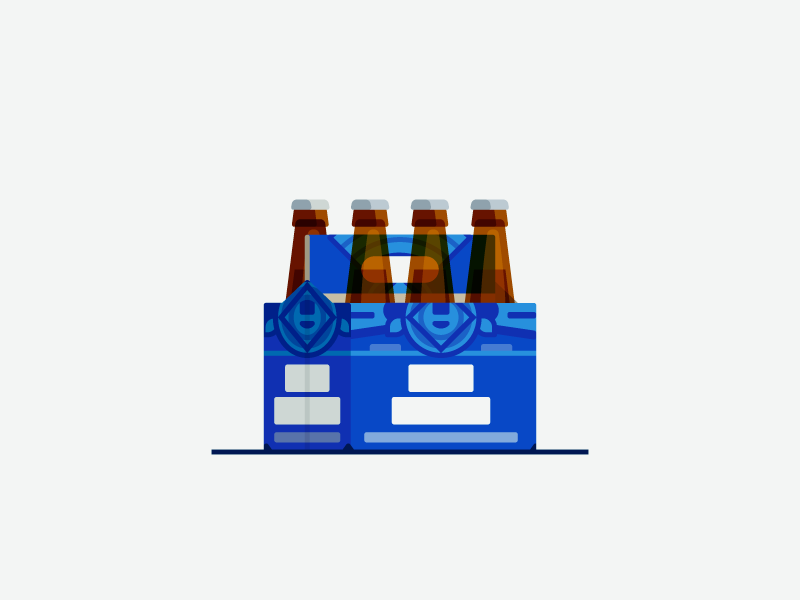
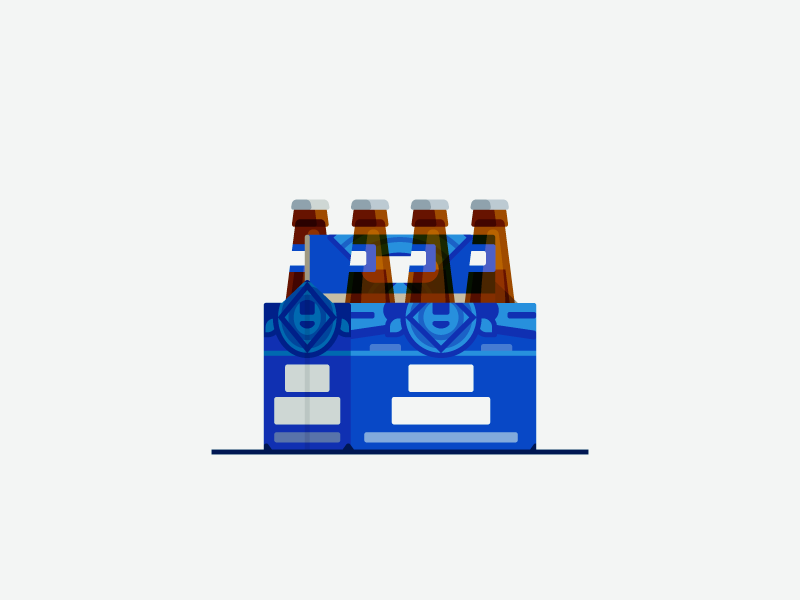
blue moon and bud light

Changed region(s): [[0.5, 0.39, 0.625, 0.45], [0.4375, 0.39, 0.4688, 0.48], [0.3438, 0.39, 0.4062, 0.45]]

diff --git a/index.html b/index.html
@@ -1,6 +1,6 @@
 <!doctype html><html class="no-js" lang=""><head><meta charset="utf-8"><meta name="description" content=""><meta name="viewport" content="width=device-width,initial-scale=1"><title>Brewskies</title><link rel="apple-touch-icon-precomposed" sizes="57x57" href="images/fav/apple-touch-icon-57x57.png"><link rel="apple-touch-icon-precomposed" sizes="114x114" href="images/fav/apple-touch-icon-114x114.png"><link rel="apple-touch-icon-precomposed" sizes="72x72" href="images/fav/apple-touch-icon-72x72.png"><link rel="apple-touch-icon-precomposed" sizes="144x144" href="images/fav/apple-touch-icon-144x144.png"><link rel="apple-touch-icon-precomposed" sizes="60x60" href="images/fav/apple-touch-icon-60x60.png"><link rel="apple-touch-icon-precomposed" sizes="120x120" href="images/fav/apple-touch-icon-120x120.png"><link rel="apple-touch-icon-precomposed" sizes="76x76" href="images/fav/apple-touch-icon-76x76.png"><link rel="apple-touch-icon-precomposed" sizes="152x152" href="images/fav/apple-touch-icon-152x152.png"><link rel="icon" type="image/png" href="images/fav/favicon-196x196.png" sizes="196x196"><link rel="icon" type="image/png" href="images/fav/favicon-96x96.png" sizes="96x96"><link rel="icon" type="image/png" href="images/fav/favicon-32x32.png" sizes="32x32"><link rel="icon" type="image/png" href="images/fav/favicon-16x16.png" sizes="16x16"><link rel="icon" type="image/png" href="images/fav/favicon-128.png" sizes="128x128"><meta name="application-name" content="&nbsp;"><meta name="msapplication-TileColor" content="#FFFFFF"><meta name="msapplication-TileImage" content="images/fav/mstile-144x144.png"><meta name="msapplication-square70x70logo" content="images/fav/mstile-70x70.png"><meta name="msapplication-square150x150logo" content="images/fav/mstile-150x150.png"><meta name="msapplication-wide310x150logo" content="images/fav/mstile-310x150.png"><meta name="msapplication-square310x310logo" content="images/fav/mstile-310x310.png"><!-- Place favicon.ico in the root directory --><link rel="stylesheet" href="styles/main.css"><script src="scripts/vendor/modernizr.js"></script></head><body><!--[if lt IE 10]>
       <p class="browserupgrade">You are using an <strong>outdated</strong> browser. Please <a href="http://browsehappy.com/">upgrade your browser</a> to improve your experience.</p>
-    <![endif]--><header class="landing"><h1>The Beer Project</h1><p>The Beer Project started with a six pack of Dos Equis and some time to spare. Shortly after, a few of my friends pushed me to turn this into a series. Since then, I've tried to knock out one of these illustrations — along with its respective six pack each week. This series originally lived on Dribbble but I've decided that it might be time for this project to live on its own here. Shoutouts to Lawrence Humphrey for developing this amazing site. Be sure to check out his stuff <a href="http://www.lawrencehumphrey.com">here</a>.</p><h3><a href="http://www.eatsleepvector.com">eatsleepvector.com</a></h3></header><section class="brews"><ul class="brews-container"><li class="brew budlight"><figure><img src="images/17-budLight.png" alt="bud-light"></figure></li><li class="brew longtrail"><figure><img src="images/16-longtrail.png" alt="longtrail"></figure></li><li class="brew stella"><figure><img src="images/15-stella.png" alt="stella"></figure></li><li class="brew yuengling"><figure><img src="images/14-yuengling.png" alt="yuengling"></figure></li><li class="brew newcastle"><figure><img src="images/13-newcastle.png" alt="newcastle"></figure></li><li class="brew brooklynlager"><figure><img src="images/12-brooklynLager.png" alt="brooklyn-lager"></figure></li><li class="brew creativesouth"><figure><img src="images/11-creativeSouth.png" alt="creative-south"></figure></li><li class="brew highlife"><figure><img src="images/10-highLife.png" alt="high-life"></figure></li><li class="brew pbr"><figure><img src="images/09-pbr.png" alt="pbr"></figure></li><li class="brew molson"><figure><img src="images/08-molson.png" alt="molson"></figure></li><li class="brew modelo"><figure><img src="images/07-modelo.png" alt="modelo"></figure></li><li class="brew bluemoon"><figure><img src="images/06-blueMoon.png" alt="blue-moon"></figure></li><li class="brew corona"><figure><img src="images/05-corona.png" alt="corona"></figure></li><li class="brew fattire"><figure><img src="images/04-fatTire.png" alt="fat-tire"></figure></li><li class="brew lonestar"><figure><img src="images/03-loneStar.png" alt="lone-star"></figure></li><li class="brew redstripe"><figure><img src="images/02-redStripe.png" alt="red-stripe"></figure></li><li class="brew shiner"><figure><img src="images/01-shiner.png" alt="shiner-bock"></figure></li><li class="brew dosequis"><figure><img src="images/00-dosEquis.png" alt="dos-equis"></figure></li></ul></section><!-- Google Analytics: change UA-XXXXX-X to be your site's ID. --><script>(function(i,s,o,g,r,a,m){i['GoogleAnalyticsObject']=r;i[r]=i[r]||function(){
+    <![endif]--><header class="landing"><h1>The Beer Project</h1><p>The Beer Project started with a six pack of Dos Equis and some time to spare. Shortly after, a few of my friends pushed me to turn this into a series. Since then, I've tried to knock out one of these illustrations — along with its respective six pack each week. This series originally lived on Dribbble but I've decided that it might be time for this project to live on its own here. Shoutouts to Lawrence Humphrey for developing this amazing site. Be sure to check out his stuff <a href="http://www.lawrencehumphrey.com">here</a>.</p><h3><a href="http://www.eatsleepvector.com">eatsleepvector.com</a></h3></header><section class="brews"><ul class="brews-container"><li class="brew bluemoon2"><figure><img src="images/18-blueMoon.png" alt="blue-moon rebranding"></figure></li><li class="brew budlight"><figure><img src="images/17-budLight.png" alt="bud-light"></figure></li><li class="brew longtrail"><figure><img src="images/16-longtrail.png" alt="longtrail"></figure></li><li class="brew stella"><figure><img src="images/15-stella.png" alt="stella"></figure></li><li class="brew yuengling"><figure><img src="images/14-yuengling.png" alt="yuengling"></figure></li><li class="brew newcastle"><figure><img src="images/13-newcastle.png" alt="newcastle"></figure></li><li class="brew brooklynlager"><figure><img src="images/12-brooklynLager.png" alt="brooklyn-lager"></figure></li><li class="brew creativesouth"><figure><img src="images/11-creativeSouth.png" alt="creative-south"></figure></li><li class="brew highlife"><figure><img src="images/10-highLife.png" alt="high-life"></figure></li><li class="brew pbr"><figure><img src="images/09-pbr.png" alt="pbr"></figure></li><li class="brew molson"><figure><img src="images/08-molson.png" alt="molson"></figure></li><li class="brew modelo"><figure><img src="images/07-modelo.png" alt="modelo"></figure></li><li class="brew bluemoon"><figure><img src="images/06-blueMoon.png" alt="blue-moon"></figure></li><li class="brew corona"><figure><img src="images/05-corona.png" alt="corona"></figure></li><li class="brew fattire"><figure><img src="images/04-fatTire.png" alt="fat-tire"></figure></li><li class="brew lonestar"><figure><img src="images/03-loneStar.png" alt="lone-star"></figure></li><li class="brew redstripe"><figure><img src="images/02-redStripe.png" alt="red-stripe"></figure></li><li class="brew shiner"><figure><img src="images/01-shiner.png" alt="shiner-bock"></figure></li><li class="brew dosequis"><figure><img src="images/00-dosEquis.png" alt="dos-equis"></figure></li></ul></section><!-- Google Analytics: change UA-XXXXX-X to be your site's ID. --><script>(function(i,s,o,g,r,a,m){i['GoogleAnalyticsObject']=r;i[r]=i[r]||function(){
       (i[r].q=i[r].q||[]).push(arguments)},i[r].l=1*new Date();a=s.createElement(o),
       m=s.getElementsByTagName(o)[0];a.async=1;a.src=g;m.parentNode.insertBefore(a,m)
       })(window,document,'script','//www.google-analytics.com/analytics.js','ga');

diff --git a/styles/main.css b/styles/main.css
@@ -1,1 +1,1 @@
-html{font-size:62.5%}body{background:#fafafa;color:#4d4d4d;font-family:Helvetica Neue,Helvetica,Arial,sans-serif;font-size:1.6rem;line-height:2.56rem;margin:0;text-rendering:optimizeLegibility;width:100vw}h1{font-size:5rem;line-height:1.3}a{color:#333;font-weight:700;text-decoration:none}ul{list-style:none;margin:0;padding:0}.landing{margin:100px auto;max-width:60rem;text-align:justify;width:80%}.landing h1,.landing h3{text-align:center}@media only screen and (max-width:480px){.landing{margin:10% auto 100px}}@media only screen and (max-width:992px){html{font-size:60%}}@media only screen and (max-width:768px){html{font-size:58%}}@media only screen and (max-width:480px){html{font-size:53%}}@media only screen and (max-width:320px){html{font-size:50%}}.brews{width:100%}.brew{display:inline-block;margin-bottom:-.7rem;overflow:hidden;width:100%}.brew,.brew figure{position:relative;text-align:center}.brew figure{color:#fff;margin:0;padding:0}.brew img{max-width:80rem;-webkit-transition:all .4s ease-in-out;transition:all .4s ease-in-out;width:100%}.brew a{text-decoration:none}.corona{background-color:#dbeaf0}.pbr{background-color:#ffc753}.bluemoon{background-color:#c1daff}.dosequis{background-color:#deeee4}.fattire{background-color:#f3f3f5}.shiner{background-color:#f1f0f4}.lonestar{background-color:#fcda7a}.redstripe{background-color:#b2cfff}.modelo{background-color:#f4eff4}.molson{background-color:#bedbfb}.highlife{background-color:#fffcf7}.brooklynlager{background-color:#514779}.creativesouth{background-color:#ffdb81}.newcastle{background-color:#b3f1f3}.yuengling{background-color:#a8bfa8}.stella{background-color:#b3cebb}.longtrail{background-color:#cbd8e4}.budlight{background-color:#f3f5f4}@media only screen and (max-width:666px){.brew img{max-height:none}}footer{line-height:1.9;margin:18rem auto;max-width:75rem;text-align:center;width:90%}footer h2{letter-spacing:1.5px}footer p{color:#404040}
+html{font-size:62.5%}body{background:#fafafa;color:#4d4d4d;font-family:Helvetica Neue,Helvetica,Arial,sans-serif;font-size:1.6rem;line-height:2.56rem;margin:0;text-rendering:optimizeLegibility;width:100vw}h1{font-size:5rem;line-height:1.3}a{color:#333;font-weight:700;text-decoration:none}ul{list-style:none;margin:0;padding:0}.landing{margin:100px auto;max-width:60rem;text-align:justify;width:80%}.landing h1,.landing h3{text-align:center}@media only screen and (max-width:480px){.landing{margin:10% auto 100px}}@media only screen and (max-width:992px){html{font-size:60%}}@media only screen and (max-width:768px){html{font-size:58%}}@media only screen and (max-width:480px){html{font-size:53%}}@media only screen and (max-width:320px){html{font-size:50%}}.brews{width:100%}.brew{display:inline-block;margin-bottom:-.7rem;overflow:hidden;width:100%}.brew,.brew figure{position:relative;text-align:center}.brew figure{color:#fff;margin:0;padding:0}.brew img{max-width:80rem;-webkit-transition:all .4s ease-in-out;transition:all .4s ease-in-out;width:100%}.brew a{text-decoration:none}.corona{background-color:#dbeaf0}.pbr{background-color:#ffc753}.bluemoon{background-color:#c1daff}.dosequis{background-color:#deeee4}.fattire{background-color:#f3f3f5}.shiner{background-color:#f1f0f4}.lonestar{background-color:#fcda7a}.redstripe{background-color:#b2cfff}.modelo{background-color:#f4eff4}.molson{background-color:#bedbfb}.highlife{background-color:#fffcf7}.brooklynlager{background-color:#514779}.creativesouth{background-color:#ffdb81}.newcastle{background-color:#b3f1f3}.yuengling{background-color:#a8bfa8}.stella{background-color:#b3cebb}.longtrail{background-color:#cbd8e4}.budlight{background-color:#f3f5f4}.bluemoon2{background-color:#a2d6a5}@media only screen and (max-width:666px){.brew img{max-height:none}}footer{line-height:1.9;margin:18rem auto;max-width:75rem;text-align:center;width:90%}footer h2{letter-spacing:1.5px}footer p{color:#404040}
